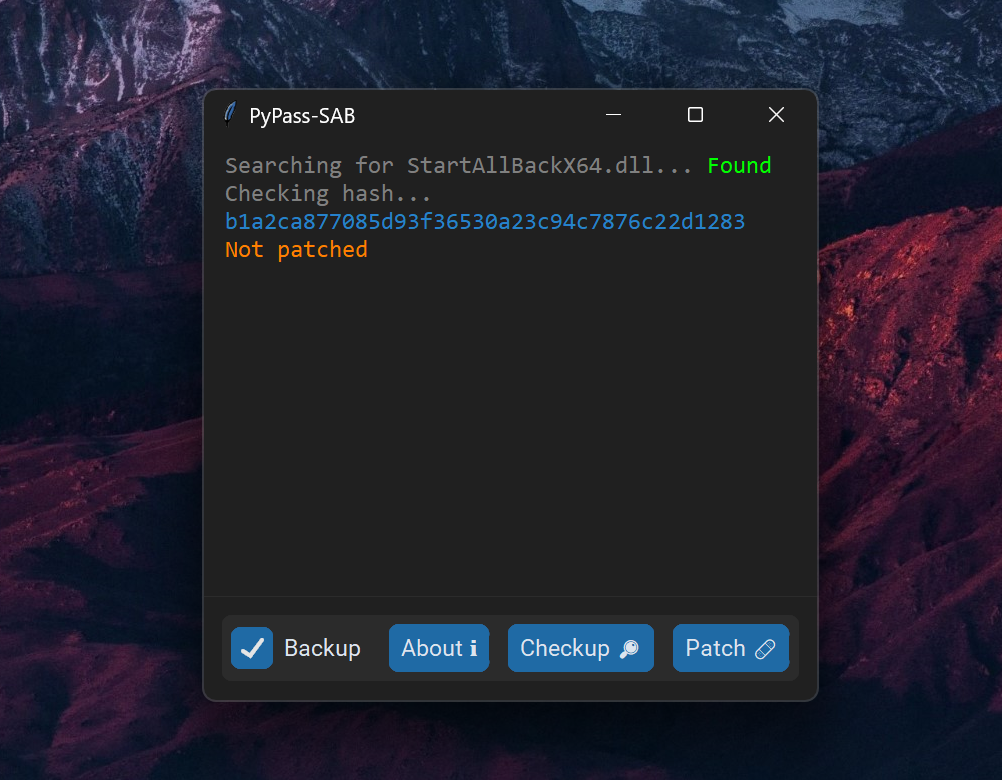
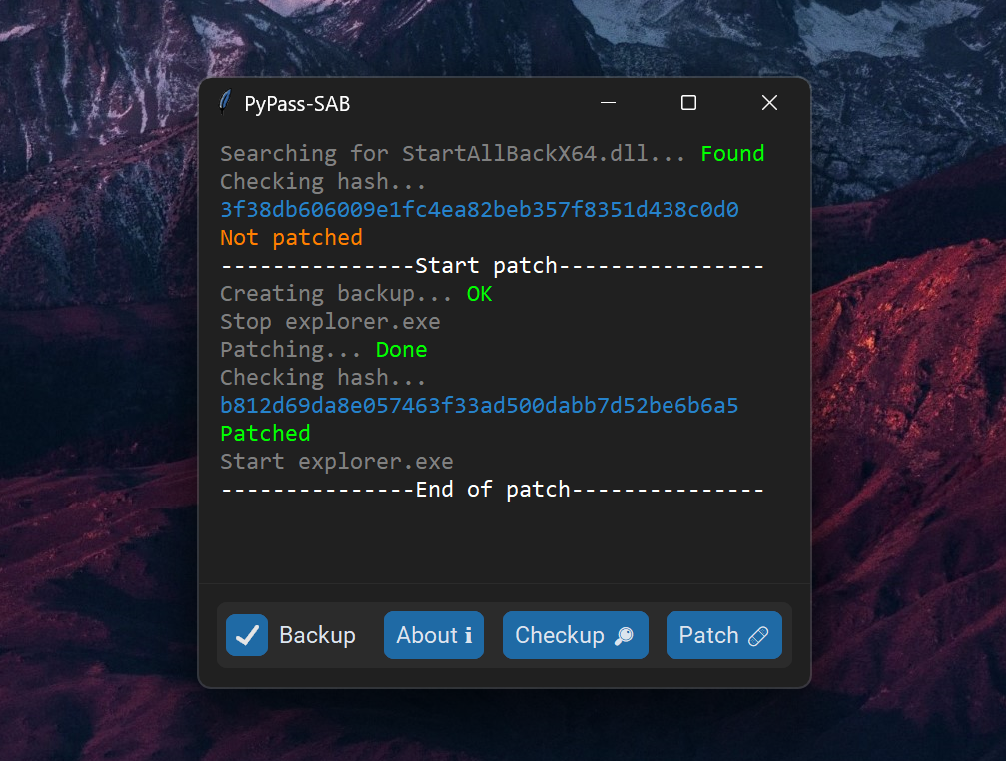
Update patch for version 3.5.5 support

diff --git a/src/patcher.py b/src/patcher.py
@@ -5,6 +5,7 @@ from os import system, remove
 from time import sleep
 
 from tkinter.filedialog import askopenfilename
+from tkinter import messagebox
 
 from src.widgets.event_viewer import EventViewer
 from src.models import Patch
@@ -16,9 +17,12 @@ def _get_file_name(path: str) -> str:
 
 class Patcher(object):
     _file_path = "C:/Program Files/StartAllBack/StartAllBackX64.dll"
-    _file_hash = "b1a2ca877085d93f36530a23c94c7876c22d1283"
-    _patched_file_hash = "55c60db9708095089103929e6140af91ffc88112"
-    _patches = [Patch(offset=0x1369, bytes=b'\xc7\x01\x01\x00\x00\x00\xb8\x01\x00\x00\x00\xc3')]
+    _file_hash = "3f38db606009e1fc4ea82beb357f8351d438c0d0"
+    _patched_file_hash = "b812d69da8e057463f33ad500dabb7d52be6b6a5"
+    _patches = [
+        Patch(offset=0x1369, bytes=b'\xc7\x01\x01\x00\x00\x00\xb8\x01\x00\x00\x00\xc3'),
+        Patch(offset=0x1564, bytes=b'\xb8\x00\x00\x00\x00\xc3')
+    ]
     _backup_path = ""
 
     def __init__(self, _do_backup_func: any, ev: EventViewer):
@@ -26,7 +30,7 @@ class Patcher(object):
         self.checkup_is_valid = False
         self._do_backup_func = _do_backup_func
         # self._gen_patches(self._readFile("C:/Program Files/StartAllBack/StartAllBackX64.dll"),
-        #                   self._readFile("C:/Program Files/StartAllBack/StartAllBackX64.patched.dll"))
+        #                   self._readFile("C:/Program Files/StartAllBack/StartAllBackX64_patched.dll"))
 
     def checkup(self):
         """
@@ -44,8 +48,13 @@ class Patcher(object):
                 self.ev.event_done("Patched")
             else:
                 self.ev.event_error("File not matching")
-                self.checkup_is_valid = False
-                self._file_path = ""
+                if messagebox.askyesno(
+                        "File not matching",
+                        "The file is not matching the original file. Do you want to patch it anyway ?"):
+                    self.checkup_is_valid = True
+                else:
+                    self.checkup_is_valid = False
+                    self._file_path = ""
         else:
             self.ev.event_error("Not found")
             self.ev.event("Select the file... ")
@@ -172,4 +181,6 @@ class Patcher(object):
             elif patch_size > 0:
                 patches.append(Patch(offset=i - patch_size, bytes=patched_file[i - patch_size:i]))
                 patch_size = 0
+        for patch in patches:
+            print(f'Patch(offset={hex(patch.offset)}, bytes={patch.bytes})')
         return patches

diff --git a/README.md b/README.md
@@ -1,4 +1,5 @@
 # PyPass-SAB 🐍
+
 <div align="center">
     <br>
     <img src="https://img.shields.io/badge/Python-3.10-blue.svg">
@@ -10,10 +11,10 @@
 </div>
 <br/>
 
-> PyPass-SAB is a patcher write in python that allows you to bypass the **100 days remaining limit** 
+> PyPass-SAB is a patcher write in python that allows you to bypass the **100 days remaining limit**
 > of StartAllBack this is NOT a keygen. <br/>
 > *Why did I make this?*<br/>
-> Because it's bored to reinstall StartAllBack every 100 days and I don't trust 
+> Because it's bored to reinstall StartAllBack every 100 days and I don't trust
 > the "cracks" found on 🇷🇺 forums. 🤷♂ <br/>
 > <br/>
 <div align="center">
@@ -22,6 +23,7 @@
 <br>
 
 ## What does it do?
+
 - Check the hash of `StartAllBackX64.dll` to make sure that the file is the correct one.
 - Make a backup of `StartAllBackX64.dll` in the same folder named `StartAllBackX64.bak`.
 - Stop all instances of `Explorer.exe`
@@ -30,26 +32,60 @@
 - That's all!
 
 ## The patch
-### Before
+
 <details>
-  <summary>Show</summary>
-    <img src="https://raw.githubusercontent.com/GuillaumeMCK/PyPass-SAB/main/.assets/original.png" width="600">
+  <summary>Ordinal_101 Function</summary>
+
+```asm
+                      *************************************************************
+                      *                                                             
+                      *   FUNCTION                                                  
+                      *************************************************************
+                      undefined8  __fastcall  Ordinal_101 (void )
+      undefined8        RAX:8          <RETURN>
+                      0x2164  101  
+                      Ordinal_101                                     XREF[4]:     Entry Point (*) ,  180027af9 (c) , 
+                                                                                   18008a9bc (*) ,  1800920fc (*)   
+180002164  b8  00  00      MOV        EAX ,0x0
+           00  00
+180002169  c3              RET
+```
 </details>
 
-### After
 <details>
-  <summary>Show</summary>
-    <img src="https://raw.githubusercontent.com/GuillaumeMCK/PyPass-SAB/main/.assets/patched.png" width="600">
+  <summary>Ordinal_102 Function</summary>
+
+```asm
+                      *************************************************************
+                      *                                                             
+                      *   FUNCTION                                                  
+                      *************************************************************
+                      undefined8  __fastcall  Ordinal_102 (undefined8 *  param_1 )
+      undefined8        RAX:8          <RETURN>
+      undefined8 *      RCX:8          param_1
+                      0x1f68  102  
+                      Ordinal_102                                     XREF[4]:     Entry Point (*) ,  180027aeb (c) , 
+                                                                                   18008a9c0 (*) ,  1800920e4 (*)   
+180001f68  48  c7  01      MOV        qword ptr [param_1 ],0x1
+           01  00  00 
+           00
+180001f6f  b8  01  00      MOV        EAX ,0x1
+           00  00
+180001f74  c3              RET
+```
 </details>
-<br/>
 
 *NOTE: The patch was created with ghidra*
+
 ## How to launch it?
+
 **From release page** : <br/>
-Download the latest [release](https://github.com/GuillaumeMCK/PyPass-SAB/releases), unzip it and launch the file "main.exe"
+Download the latest [release](https://github.com/GuillaumeMCK/PyPass-SAB/releases), unzip it and launch the file "
+main.exe"
 <br><br/>
 **From sources** : <br/>
 Follow the instructions below <br/>
+
 ```batch
 git clone https://github.com/GuillaumeMCK/PyPass-SAB.git
 cd PyPass-SAB
@@ -58,13 +94,15 @@ py main.py
 ```
 
 ## Build
-To build the project run 
+
+To build the project run
+
 ```batch
 cd PyPass-SAB
 py setup.py build
 ```
 
-
 ## Disclaimer
+
 I AM NOT RESPONSIBLE FOR ANY DAMAGE CAUSED OR ANY ILLEGAL USAGE OF THIS SCRIPT.
 USE IT AT YOUR OWN RISK.
